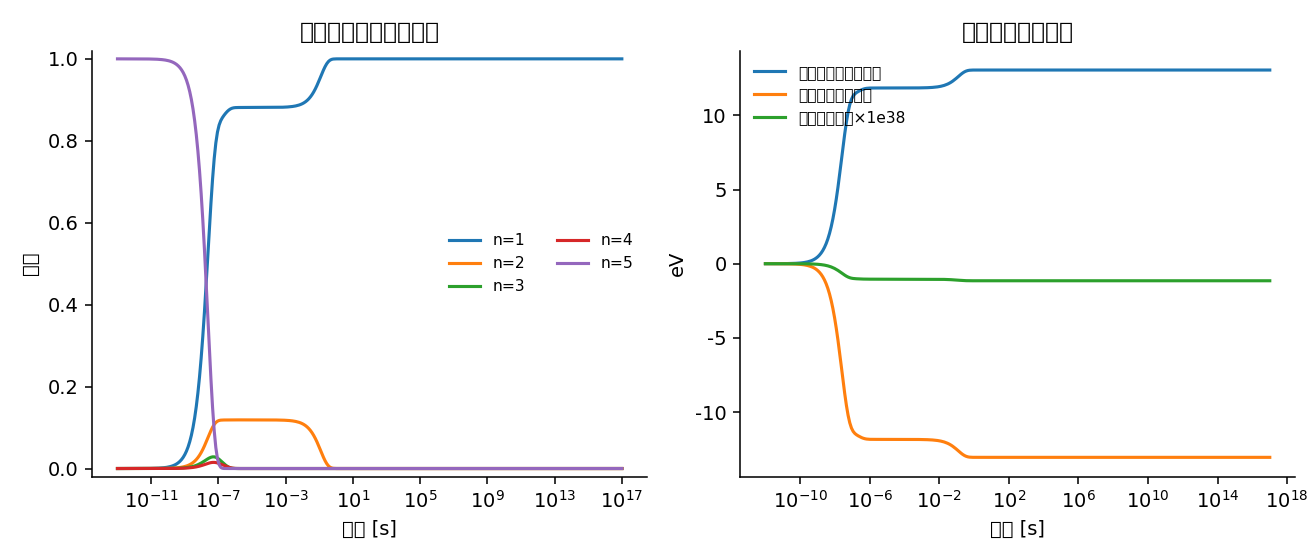
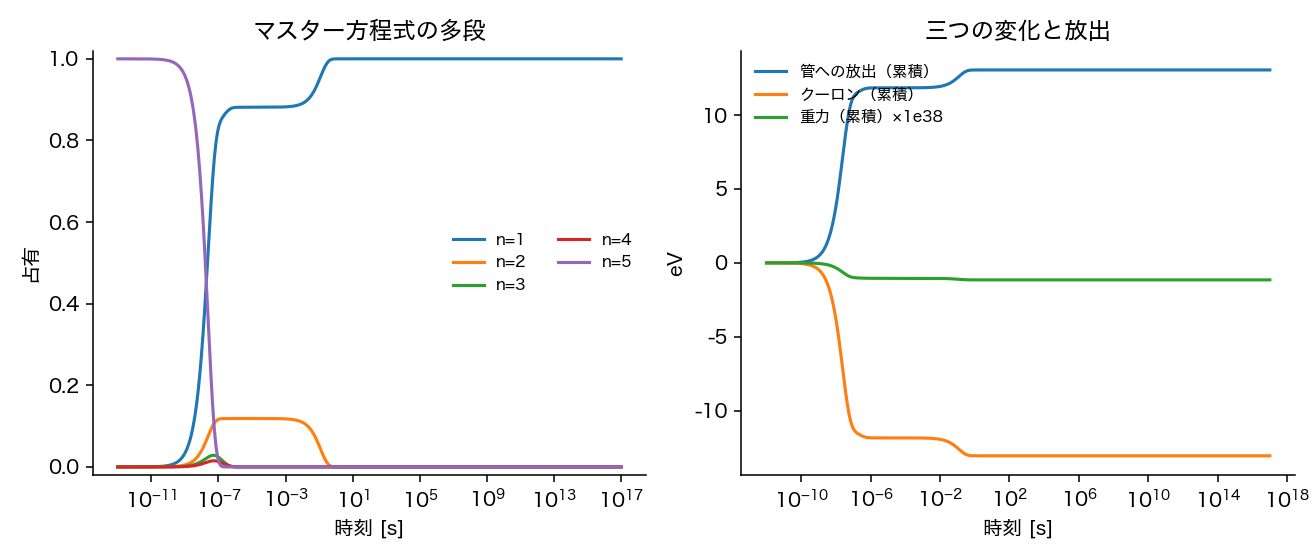
Grok移行実験 exchange_rel_20261005：基底から ℓ=0 の重複を除去（50 準位）、M1 を同じ nℓ の全対に一般化（超微細＋微細構造間、Edmonds 7.1.7/7.1.8、射影定理で差 0）、matmul 偽警告の原因特定（numpy 2.0.2 + Accelerate）と np.dot への変更、フォントを OS 自動選択（直接実行可・図の日本語表示）、README.md・run_all.sh・SHA256SUMS を追加。結果は不変（5p₃/₂→1s F=0、放出 13.054539278 eV = 準位落差）。

diff --git a/匿名頂点状態生成幾何-匿名内部観測者から不変な関係量の体系/Grok移行実験/exchange_rel_20261005/exchange_cascade.py b/匿名頂点状態生成幾何-匿名内部観測者から不変な関係量の体系/Grok移行実験/exchange_rel_20261005/exchange_cascade.py
@@ -2,10 +2,10 @@
 """水素型二体（電子 q = −3、陽子 q = +3）の多段放出。準位は Einstein–Maxwell（Dirac–Coulomb 厳密解＋二体反跳、
 二体 1PN 重力、超微細）、遷移は Einstein の A 係数、時間発展はマスター方程式 dp/dt = R p。
 
-基底は (n, ℓ, s_e, s_p)、n = 1..5。s_e は j − ℓ の符号（ℓ = 0 は j = ½ のみで s_e = −1 は重複：動力学から除外）、
-s_p は F − j の符号。
+基底は (n, ℓ, s_e, s_p)、n = 1..5、50 準位。s_e は j − ℓ の符号（ℓ = 0 は j = ½ のみ）、s_p は F − j の符号。
 遷移は全ての下向き対（ΔE > 0）：E1（Δℓ = ±1）、E2 と重力波（Δℓ = 0, ±2、同じ四重極演算子、比 W_GW）、
-超微細 M1（同じ nℓj で ΔF = ±1）、2s→1s の二光子（8.2206 s⁻¹、ΔF = 0）と M1（2.496e-6 s⁻¹）。n → n−1 の拘束はない。
+M1（同じ nℓ：超微細 ΔF = ±1 と微細構造間 Δj = ±1。μ = −μ_B(L+2S) + g_pμ_N I）、
+2s→1s の二光子（8.2206 s⁻¹、ΔF = 0）と M1（2.496e-6 s⁻¹）。n → n−1 の拘束はない。
 外からの吸収は 0 で、増えたら失敗にする。
 電荷と静止質量は初期値と比較し、違えば失敗にする。
 重力辺は残す。物理の重み W_GW と、重み 1 の実験を両方記録する。
@@ -21,8 +21,12 @@ from matplotlib import font_manager
 from scipy.integrate import quad, solve_ivp
 from scipy.special import genlaguerre
 
-font_manager.fontManager.addfont("/usr/share/fonts/truetype/wqy/wqy-zenhei.ttc")
-plt.rcParams["font.family"] = "WenQuanYi Zen Hei"
+# フォント：元の Linux 固定パスは他の OS で失敗するので、あれば登録し、無ければ OS にある日本語フォントへ落とす。
+if Path("/usr/share/fonts/truetype/wqy/wqy-zenhei.ttc").exists():
+    font_manager.fontManager.addfont("/usr/share/fonts/truetype/wqy/wqy-zenhei.ttc")
+_FONT_PREF = ["WenQuanYi Zen Hei", "Hiragino Sans", "Noto Sans CJK JP", "IPAexGothic", "Yu Gothic"]
+_FONTS = {f.name for f in font_manager.fontManager.ttflist}
+plt.rcParams["font.family"] = next((f for f in _FONT_PREF if f in _FONTS), "DejaVu Sans")
 plt.rcParams["axes.unicode_minus"] = False
 
 OUT = Path(__file__).resolve().parent
@@ -52,17 +56,18 @@ W_GW = 4.0 * (MU_P * MU**2 / 9.0) * MU_P / (MU_P - 1.0) ** 2
 
 
 def basis():
+    """(n, ℓ, s_e, s_p)。ℓ = 0 は j = ½ だけなので s_e = +1 のみ（元の基底にあった s_e = −1 の重複は除いた）。50 準位。"""
     return [(n, ell, se, sp)
             for n in range(1, 6)
             for ell in range(n)
-            for se in (-1, 1)
+            for se in ((1,) if ell == 0 else (-1, 1))
             for sp in (-1, 1)]
 
 
 ST = basis()
 IDX = {s: i for i, s in enumerate(ST)}
 DIM = len(ST)
-VALID = [i for i, (n, ell, se, sp) in enumerate(ST) if not (ell == 0 and se == -1)]   # ℓ = 0 の s_e = −1 は j = ½ の重複
+VALID = list(range(DIM))
 
 
 def jf_of(ell, s_e, s_p):
@@ -243,14 +248,28 @@ def lande_g(ell, j):
     return 1.0 + (j * (j + 1) + 0.75 - ell * (ell + 1)) / (2.0 * j * (j + 1))
 
 
-def m1_hyperfine(n, ell, j, F, F2, omega):
-    """同じ nℓj の超微細 M1（ΔF = ±1）。A = (4ω³/3ħc³)|⟨F'||μ||F⟩|²/(2F+1)、μ = −g_j μ_B J/ħ + g_p μ_N I/ħ。
-    1s F=1→0（21 cm）：(α/3)ω³(ħ/m_ec²)²(2μ_B + g_pμ_N)²/μ_B² ... = 2.877e-15 s⁻¹（実測 2.884e-15、差は g_e/2）。"""
-    I = 0.5
-    redJ = (-1) ** int(j + I + F + 1) * sqrt((2 * F + 1) * (2 * F2 + 1)) * wigner6j(j, F2, I, F, j, 1) * sqrt(j * (j + 1) * (2 * j + 1))
-    redI = (-1) ** int(j + I + F2 + 1) * sqrt((2 * F + 1) * (2 * F2 + 1)) * wigner6j(I, F2, j, F, I, 1) * sqrt(I * (I + 1) * (2 * I + 1))
-    moment_sq = (-lande_g(ell, j) * redJ + (G_P / MU_P) * redI) ** 2 / (2 * F + 1)      # μ_B 単位
-    return (ALPHA / 3.0) * omega**3 * (HBAR_SI / (ME_SI * C_SI**2)) ** 2 * moment_sq
+def m1_reduced(ell, j, F, j2, F2):
+    """同じ nℓ の二準位間の M1 の換算行列要素（μ_B 単位）。μ = −μ_B(L + 2S)/ħ + g_p μ_N I/ħ = −μ_B(J + S)/ħ + g_p μ_N I/ħ。
+    結合 ((ℓ s) j I) F。Edmonds 7.1.7／7.1.8：
+      ⟨(j' I)F'||J||(j I)F⟩ = δ_jj' (−1)^{j+I+F+1} √((2F+1)(2F'+1)) {j F' I; F j 1} √(j(j+1)(2j+1))
+      ⟨((ℓs)j' I)F'||S||((ℓs)j I)F⟩ = (−1)^{j'+I+F+1} √((2F+1)(2F'+1)) {j' F' I; F j 1} ⟨(ℓs)j'||S||(ℓs)j⟩、
+         ⟨(ℓs)j'||S||(ℓs)j⟩ = (−1)^{ℓ+s+j'+1} √((2j+1)(2j'+1)) {s j' ℓ; j s 1} √(s(s+1)(2s+1))
+      ⟨(j I)F'||I||(j I)F⟩ = δ_jj' (−1)^{j+I+F'+1} √((2F+1)(2F'+1)) {I F' j; F I 1} √(I(I+1)(2I+1))
+    j' = j では ⟨J⟩ + ⟨S⟩ = g_j⟨J⟩（射影定理。rates_check.py で確認）。j' ≠ j は微細構造間の M1（⟨S⟩ だけ）。"""
+    I, s = 0.5, 0.5
+    pref = sqrt((2 * F + 1) * (2 * F2 + 1))
+    redJ = 0.0 if j2 != j else (-1) ** int(j + I + F + 1) * pref * wigner6j(j, F2, I, F, j, 1) * sqrt(j * (j + 1) * (2 * j + 1))
+    redS_j = (-1) ** int(ell + s + j2 + 1) * sqrt((2 * j + 1) * (2 * j2 + 1)) * wigner6j(s, j2, ell, j, s, 1) * sqrt(s * (s + 1) * (2 * s + 1))
+    redS = (-1) ** int(j2 + I + F + 1) * pref * wigner6j(j2, F2, I, F, j, 1) * redS_j
+    redI = 0.0 if j2 != j else (-1) ** int(j + I + F2 + 1) * pref * wigner6j(I, F2, j, F, I, 1) * sqrt(I * (I + 1) * (2 * I + 1))
+    return -(redJ + redS) + (G_P / MU_P) * redI
+
+
+def m1_rate(ell, j, F, j2, F2, omega):
+    """同じ nℓ の二準位間の M1。A = (4ω³/3ħc³)|⟨F'||μ||F⟩|²/(2F+1) = (α/3)ω³(ħ/m_ec²)²|M|²/(2F+1)、M は μ_B 単位。
+    超微細（j' = j、ΔF = ±1）：1s F=1→0（21 cm）2.868e-15 s⁻¹（実測 2.884e-15、差は g_e/2 の 2 乗と ω³）。
+    微細構造間（j' = j ± 1）：2p₃/₂→2p₁/₂ は 1e-12 s⁻¹ 台。"""
+    return (ALPHA / 3.0) * omega**3 * (HBAR_SI / (ME_SI * C_SI**2)) ** 2 * m1_reduced(ell, j, F, j2, F2) ** 2 / (2 * F + 1)
 
 
 def edges(gw_weight):
@@ -278,8 +297,10 @@ def edges(gw_weight):
                 if A > 0.0:
                     out.append((i, f, "e2", A))
                     out.append((i, f, "gw", gw_weight * A))
-            if (n, l, j) == (n2, l2, j2) and abs(F2 - F) == 1:
-                out.append((i, f, "m1", m1_hyperfine(n, l, j, F, F2, w)))
+            if (n, l) == (n2, l2) and abs(j2 - j) <= 1 and abs(F2 - F) <= 1 and F + F2 >= 1:
+                A = m1_rate(l, j, F, j2, F2, w)
+                if A > 0.0:
+                    out.append((i, f, "m1", A))
             if (n, l) == (2, 0) and (n2, l2) == (1, 0):
                 if F2 == F:
                     out.append((i, f, "2ph", A_2GAMMA))
@@ -316,12 +337,14 @@ def run(gw_weight, t_max=1.0e17, n_times=300):
     tau[trans] = np.linalg.solve(-R[np.ix_(trans, trans)], p0[trans])
     p_inf = p0.copy()
     p_inf[trans] = 0.0
-    p_inf[absb] += R[np.ix_(absb, trans)] @ tau[trans]
+    p_inf[absb] += np.dot(R[np.ix_(absb, trans)], tau[trans])
     flux_E = {}
     for src, dst, kind, A in ed:
         flux_E[kind] = flux_E.get(kind, 0.0) + A * tau[src] * (ETOT[src] - ETOT[dst])
     times = np.concatenate([[0.0], np.logspace(-12, np.log10(t_max), n_times)])
-    sol = solve_ivp(lambda t, p: R @ p, (0.0, t_max), p0, method="Radau", jac=lambda t, p: R,
+    # np.dot を使う：この環境（numpy 2.0.2 + Accelerate）では 50×50 以上の `@` が有限な乱数行列でも
+    # "divide by zero in matmul" の偽の警告を出す（np.dot は出さず、値は一致。README 参照）。
+    sol = solve_ivp(lambda t, p: np.dot(R, p), (0.0, t_max), p0, method="Radau", jac=lambda t, p: R,
                     t_eval=times, rtol=1e-11, atol=1e-30)
     if not sol.success:
         raise RuntimeError("時間発展が解けない：" + sol.message)

diff --git a/匿名頂点状態生成幾何-匿名内部観測者から不変な関係量の体系/Grok移行実験/exchange_rel_20261005/rates_check.py b/匿名頂点状態生成幾何-匿名内部観測者から不変な関係量の体系/Grok移行実験/exchange_rel_20261005/rates_check.py
@@ -85,11 +85,23 @@ A21 = sum(A for src, dst, k, A in ed if src == i1 and dst == i0 and k == "m1")
 w21 = (X.ETOT[i1] - X.ETOT[i0]) * X.ME_EV * X.E_SI / X.HBAR_SI
 gp_save = X.G_P
 X.G_P = 0.0
-A21_e = X.m1_hyperfine(1, 0, 0.5, 1.0, 0.0, w21)
+A21_e = X.m1_rate(0, 0.5, 1.0, 0.5, 0.0, w21)
+# 射影定理：j' = j では ⟨J⟩ + ⟨S⟩ = g_j⟨J⟩。電子部分だけの換算行列要素を −g_j·redJ と比較
+worst_proj = 0.0
+for (l, j) in ((0, 0.5), (1, 0.5), (1, 1.5), (2, 1.5), (2, 2.5)):
+    for F, F2 in ((j + 0.5, j - 0.5), (j - 0.5, j + 0.5)):
+        if F2 < 0 or F < 0:
+            continue
+        pref = np.sqrt((2 * F + 1) * (2 * F2 + 1))
+        redJ = (-1) ** int(j + 0.5 + F + 1) * pref * X.wigner6j(j, F2, 0.5, F, j, 1) * np.sqrt(j * (j + 1) * (2 * j + 1))
+        worst_proj = max(worst_proj, abs(X.m1_reduced(l, j, F, j, F2) + X.lande_g(l, j) * redJ))
 X.G_P = gp_save
 L.append("   本式 %.4e s⁻¹、実測 2.8843e-15 s⁻¹、比 %.5f（(2/2.00232)² = %.5f：電子異常磁気能率）" % (A21, A21 / 2.8843e-15, (2 / 2.00231930) ** 2))
 L.append("   核スピン項を落とした値との比 %.5f、(1 + g_pμ_N/2μ_B)² = %.5f：電子と陽子のモーメントは足し合う（符号正しい）" % (A21 / A21_e, (1 + X.G_P / (2 * X.MU_P)) ** 2))
+L.append("   射影定理 ⟨J⟩ + ⟨S⟩ = g_j⟨J⟩（j' = j、s/p/d の全 j、ΔF = ±1）：最大差 %.1e" % worst_proj)
 L.append("   ω は本式の超微細間隔（1418.8 MHz）で計算。周波数を実測に置けば ω³ で %.4f 倍" % ((1420.405752 / hfs_split(1, 0, 0.5)) ** 3))
+A_fs = sum(A for src, dst, k, A in ed if k == "m1" and X.ST[src][:3] == (2, 1, 1) and X.ST[dst][:3] == (2, 1, -1))
+L.append("   微細構造間の M1 2p₃/₂→2p₁/₂（全 F→F'、1 つの F から）：%.3e s⁻¹（E1 崩壊 6.3e8 の 1e-21）" % (A_fs / 2))
 
 # 5. E2 と重力波
 L.append("")

diff --git a/匿名頂点状態生成幾何-匿名内部観測者から不変な関係量の体系/Grok移行実験/exchange_rel_20261005/README.md b/匿名頂点状態生成幾何-匿名内部観測者から不変な関係量の体系/Grok移行実験/exchange_rel_20261005/README.md
@@ -1,0 +1,61 @@
+# exchange_rel_20261005 — 水素型二体の多段放出（Einstein–Maxwell の準位＋Einstein の A 係数）
+
+Grok の `../exchange_latest_20261005/exchange_cascade.py` をコピーし、2026-10-05 に三段階で直したもの。
+元ファイルは触っていない。差分は `CHANGES_vs_original.diff`。
+
+| 段 | 内容 | 文書 |
+|---|---|---|
+| 1 | クーロン準位を二体の相対論的準位に（Dirac–Coulomb 厳密解＋陽子反跳＋Breit 項、Barker–Glover 1955 = CODATA の E_M）。1s を Rydberg に釘付けする単位をやめ m_e c² に | `coulomb_levels_check.txt` |
+| 2 | 重力を一般相対論に（結合定数を α_G から導出、二体 1PN 準位、重力波は四重極の比 W_GW） | `重力項目_調査と修正_ja_20261005.md` §1–3、`gravity_levels_check.txt` |
+| 3 | 動力学を Einstein の A 係数によるマスター方程式に（E1/E2/GW/M1/二光子、超微細の厳密式、滞在時間 τ で放出を厳密に数える、n→n−1 拘束撤廃） | 同 §4–6、`rates_check.txt` |
+
+## 実行
+
+```
+./run_all.sh
+```
+
+本体（`audit.txt`、`cascade_result.png`）、検算 3 本（`*_check.txt`）、差分、`SHA256SUMS` を作る。
+フォントは OS にある日本語フォントへ自動で落とすので、どの OS でも直接 `python3 exchange_cascade.py` で動く。
+依存：numpy、scipy、matplotlib。
+
+## 中身
+
+- **基底** (n, ℓ, s_e, s_p)、n = 1..5、50 準位。s_e は j − ℓ の符号、s_p は F − j の符号。初期状態は 5p₃/₂ F=1。
+- **準位** ETOT = ORB_C（Dirac–Coulomb＋反跳＋Breit）＋ ORB_G（二体 1PN 重力、1e-38 eV、別配列で保持）＋ HFS（超微細、g_p = 5.5857）。
+- **遷移率** 全ての下向き対。E1 (4ω³/3ħc³)e²|⟨r⟩|²、E2 (ω⁵/90ħc⁵)·6e²|⟨r²⟩|²(2ℓ'+1)(ℓ 2 ℓ';000)²、GW = W_GW × E2（W_GW = 4Gμ²M²/(e²(m_p−m_e)²) = 9.613e-43）、M1（同じ nℓ：μ = −μ_B(L+2S) + g_pμ_N I）、2s→1s 二光子 8.2206 s⁻¹ と M1 2.496e-6 s⁻¹。j と F の分解は 6j 記号（Racah の式、有理数）。動径積分は Laguerre 関数の数値積分。
+- **時間発展** 滞在時間 τ = −R_TT⁻¹ p₀ を厳密に解き、各辺の流量 A·τ に ΔE を掛けて放出を数える（時間刻みの誤差なし）。図と時刻ごとの pool は陰的 Radau（Jacobian = R）。
+- **会計** 電荷・静止質量・外からの吸収 0 の検査、pool（超微細・クーロン・重力・管への放出）、重力波の物理の重みと重み 1 の実験（Grok の設計を維持）。
+
+## 結果（audit.txt）
+
+- 終状態：1s F=0 が 1.0（t = 1e17 s。1s F=1 は 21 cm で寿命 1.1e7 年）。
+- 放出 13.054539278 eV = 準位の落差（差 2e-15）。内訳 E1 11.84、二光子 1.21（2s を通った 11.9%）、M1 2.4e-6、E2 1.5e-6、重力波 1.4e-48 eV。
+- 重力束縛の増分 −1.151e-38 eV（2g × 13.05 eV と一致）。
+- 時間構造：1e-8 s で 88% が 1s へ、12% が 2s に滞留して 0.1 s で二光子崩壊。
+
+## 検算（外部値との照合）
+
+| 量 | 本式 | 参照 | 比・差 |
+|---|---|---|---|
+| 1S 電離エネルギー | 13.5984684 eV | 実測 13.5984346 | 差 8172.7 MHz = 1S Lamb シフト 8172.9（QED） |
+| 2P₃/₂ − 2P₁/₂ | 10943.68 MHz | 実測 10969.04 | 差 25.4 MHz = (α/π)×分裂（QED） |
+| g = G m_e m_p/e² | 4.407886e-40 | SI から独立 4.407886e-40 | 1.00000000 |
+| E1 10 本（2p→1s 6.2651e8 など） | | NIST ASD | 最大差 1.2e-4 |
+| 超微細 1s/2s/2p₁/₂/2p₃/₂ | 1418.84/177.36/59.12/23.65 MHz | 実測 1420.41/177.56/59.22/23.65 | 0.9989 = 1/(g_e/2)（QED） |
+| 21 cm の A | 2.868e-15 s⁻¹ | 実測 2.884e-15 | 0.9944（g_e/2 の 2 乗と ω³） |
+| 3d→1s の E2 / GW | 593.8 s⁻¹ / 5.71e-40 s⁻¹ | 文献 594 s⁻¹ | |
+| 期待値の恒等式・和則・射影定理 | | | 1e-16 |
+
+## 環境の注意
+
+- numpy 2.0.2 + Accelerate（macOS）では 50×50 以上の `@` が有限な乱数行列でも `divide by zero encountered in matmul` の偽の警告を出す（`np.dot` は出さず、値は一致）。本体は `np.dot` を使う。Grok の元プログラムの `m @ p` の警告も同じもの。
+
+## 入れていないもの
+
+- QED（Lamb シフト、電子の異常磁気能率）、陽子の有限サイズ。実測との差はすべてこの大きさ。
+- 超微細と遷移行列要素の相対論補正（相対 α² ≈ 5e-5）。
+- KN 四重極（第十思考実験 v7 の T19–T22）。m_j を分解しない準位では一次の寄与が 0。
+- 二光子と 2s→1s M1 の率は文献定数。
+- 重力 1PN の接触項（ℓ = 0）は電子側を FW で導き、陽子側は対称性で補った。スピン・スピンの接触項はベクトル解析の恒等式から。文献との突き合わせはしていない。
+- この一式は標準の量子力学の水素原子であり、万能相互作用（a–b 交換 U_R、ロック、δτ）の実装ではない。交換実装が再現すべき正解表として使う。
